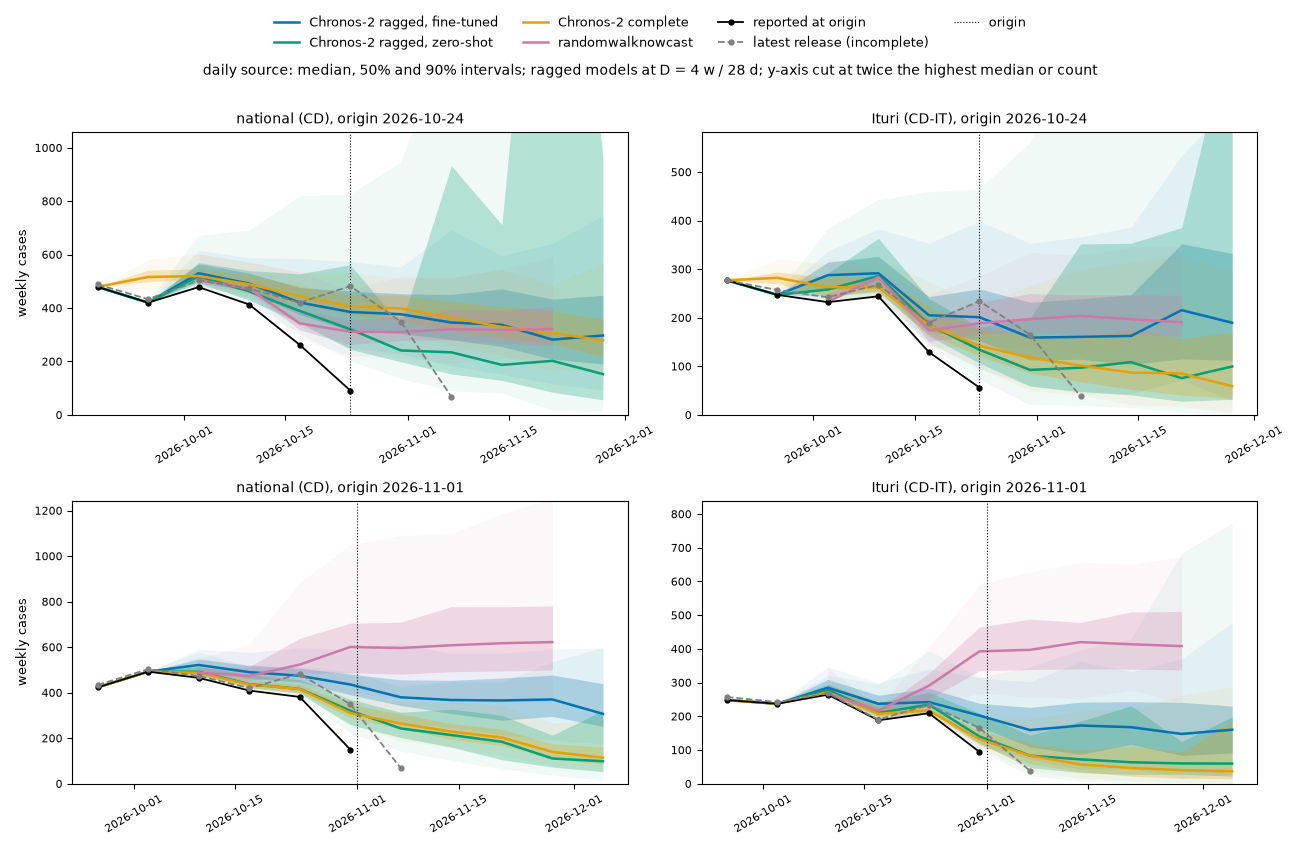
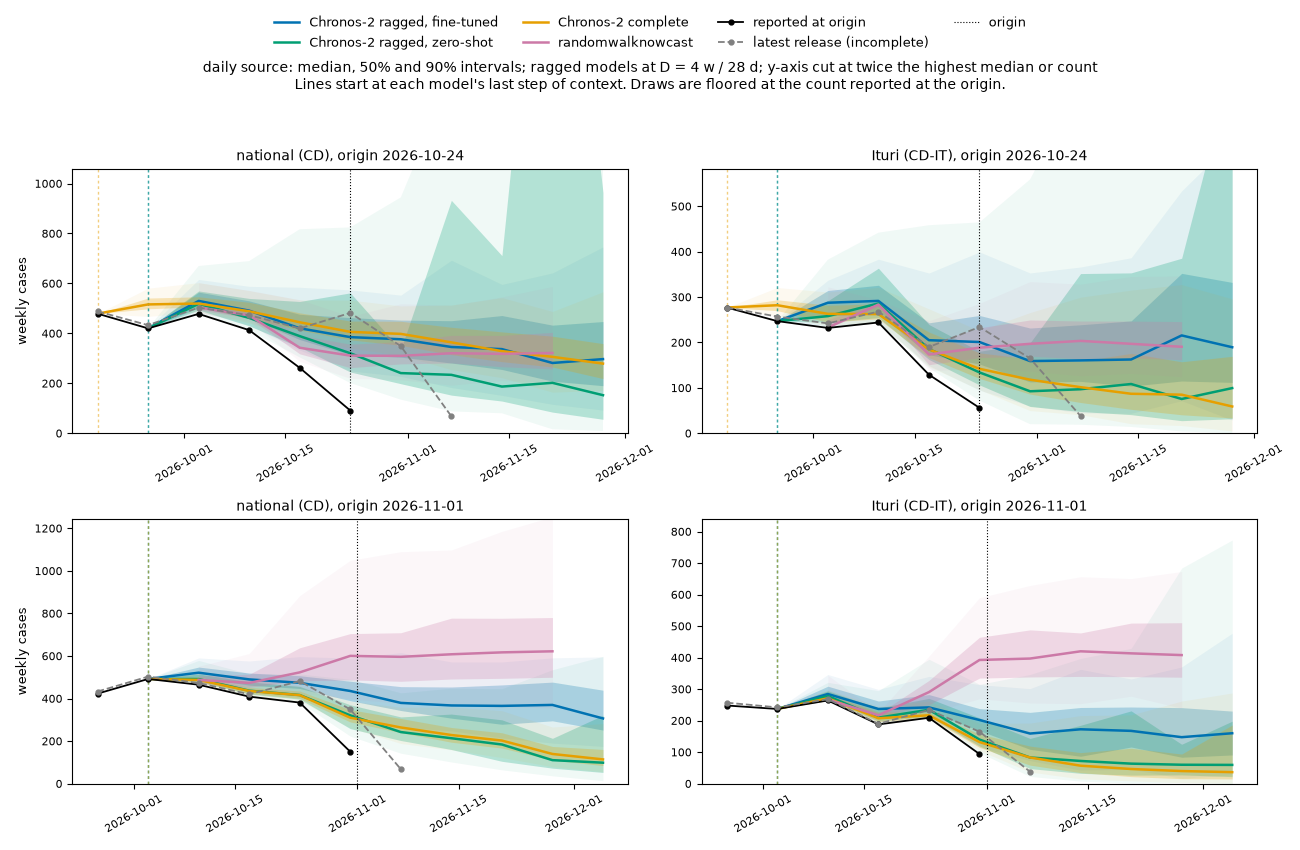
Start each overlay line at the model's last step of context

diff --git a/scripts/overlay.py b/scripts/overlay.py
@@ -2,6 +2,7 @@
 for the country and Ituri at 2026-10-24 and 2026-11-01.
 
 The ragged models, zero-shot and fine-tuned, are at D = 4 w / 28 d.
+Each Chronos-2 line starts at the model's last step of context (t*).
 
 Usage: overlay.py SOURCE FT_STORE BASE_STORE RW_FORECASTS OUT, from the
 fm-finetune worktree's root. RW_FORECASTS is the forecasts.csv.gz of a
@@ -31,6 +32,12 @@ models = [
 t = pd.read_csv("data/target.csv")
 rw = pd.read_csv(rw_path)
 rw = rw[(rw.model == "randomwalknowcast") & rw.as_of.isna()]
+# Each model's last step of context (t*) by origin; draws up to t* equal
+# the reported count by construction.
+tstar = {
+    "ragged": {"2026-10-24": "2026-09-26", "2026-11-01": "2026-10-03"},
+    "complete": {"2026-10-24": "2026-09-19", "2026-11-01": "2026-10-03"},
+}
 
 
 def forecasts(store, name, origin):
@@ -49,10 +56,17 @@ for row, origin in enumerate(["2026-10-24", "2026-11-01"]):
         for label, store, name, c in models:
             f = forecasts(store, name, origin)
             f = f[f.location == loc]
+            first = f.target_end_date.min()
+            start = min(start or first, first)
+            kind = "complete" if name.endswith("complete") else "ragged"
+            ts = None if store is None else tstar[kind][origin]
+            if ts is not None:
+                f = f[f.target_end_date >= ts]
+                ax.axvline(pd.Timestamp(ts), color=c, lw=1, alpha=0.5,
+                           ls=(0, (2, 2)))
             q = (f.groupby("target_end_date")["value"]
                  .quantile([0.05, 0.25, 0.5, 0.75, 0.95]).unstack())
             x = pd.to_datetime(q.index)
-            start = min(start or q.index.min(), q.index.min())
             top = max(top, q[0.5].max())
             ax.fill_between(x, q[0.05], q[0.95], color=c, alpha=0.06, lw=0)
             ax.fill_between(x, q[0.25], q[0.75], color=c, alpha=0.25, lw=0)
@@ -80,7 +94,8 @@ fig.legend(handles, labels, loc="upper center", ncol=4, fontsize=9,
            frameon=False, bbox_to_anchor=(0.5, 0.995))
 fig.suptitle(f"{source} source: median, 50% and 90% intervals; "
              "ragged models at D = 4 w / 28 d; y-axis cut at twice the "
-             "highest median or count",
-             fontsize=10, y=0.925)
-fig.tight_layout(rect=(0, 0, 1, 0.92))
+             "highest median or count\nLines start at each model's last step of "
+             "context. Draws are floored at the count reported at the "
+             "origin.", fontsize=10, y=0.93)
+fig.tight_layout(rect=(0, 0, 1, 0.9))
 fig.savefig(out, dpi=100)
